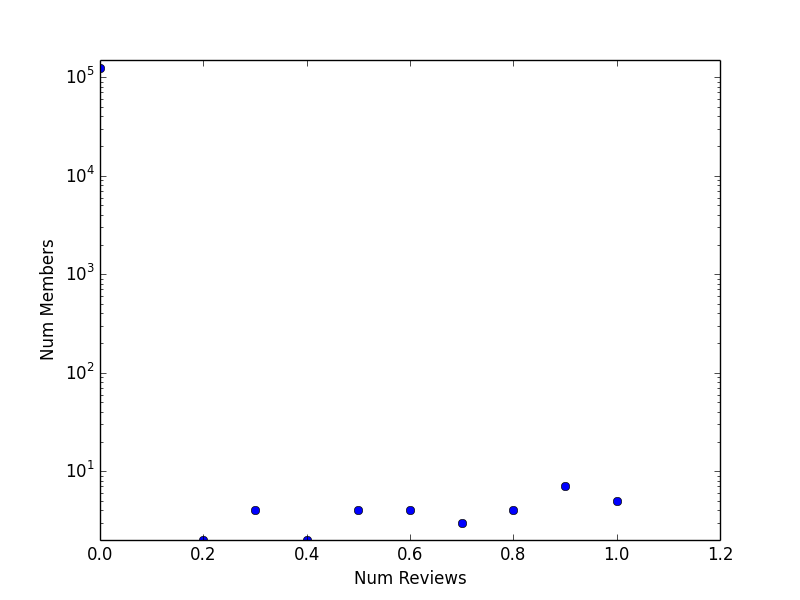
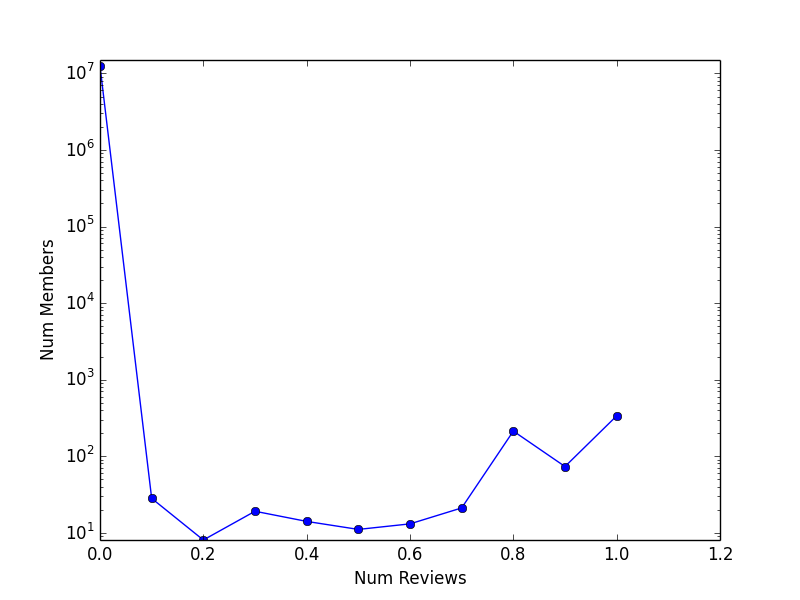
add plot similarity

diff --git a/summary_plot.py b/summary_plot.py
@@ -7,9 +7,13 @@ from sets import Set
 from collections import Counter
 import re
 import file_util
+import ast
 
-FU = file_util.FileUtil('../AmazonDataBackup/reviewsNew/reviewsNew.mP')
-FU.get_structure()
+fu = file_util.FileUtil()
+
+fu.open_file('../AmazonDataBackup/reviewsNew/reviewsNew.mP')
+
+fu.get_structure()
 
 def get_reviews_reviewers_relation(memberId_list):
 	"""
@@ -92,15 +96,12 @@ def get_2_grams(words=""):
 	return Set(words_list_2)
 
 def get_js_list(content_list):
-	# content_list = get_reviews_content(reviews_array)
-	content_2_grams = []
-	for content in content_list:
-		content_2_grams.append(get_2_grams(words=content))
-	reviews_len = len(content_list)
+	content_list_2_grams = [get_2_grams(content) for content in content_list]
+	reviews_len = len(content_list_2_grams)
 	jd_list = []
 	for i in range(0, reviews_len):
 		for j in range(i + 1, reviews_len):
-			jd_list.append(jaccard_distence(content_2_grams[i], content_2_grams[j]))
+			jd_list.append(jaccard_distence(content_list_2_grams[i], content_list_2_grams[j]))
 
 	return jd_list
 
@@ -130,21 +131,15 @@ def get_reviews_similarity_relation(jd_list):
 		elif jd ==1:
 			rs_relation_dict['1'] += 1		
 	rs_relation_dict = collections.OrderedDict(sorted(rs_relation_dict.items()))
-	print rs_relation_dict
 	return rs_relation_dict
 
 # rs_relation_dict = get_reviews_similarity_relation(get_js_list(reviews_array))
 # plot_relation(rs_relation_dict, use_log=False, plot_type='b-', xlabel='Similarity Score', ylabel='Num Pairs')
 
-# print get_reviews_rating_relation(reviews_array)
-# print get_reviews_feedbacks_relation(reviews_array)
-# print get_reviews_products_relation(reviews_array)
-# get_reviews_reviewers_relation(reviews_array)
+# save_graph(get_reviews_reviewers_relation(fu.get_memberId_list()), 'reviews_reviewers.png')
+# save_graph(get_reviews_products_relation(fu.get_productId_list()), 'reviews_products.png', xlabel='Num Reviews', ylabel='Num Products')
+# save_graph(get_reviews_feedbacks_relation(fu.get_feedback_list()), 'reviews_feedbacks.png', xlabel='Num Reviews', ylabel='Num Feedbacks')
+# save_graph(get_reviews_rating_relation(fu.get_rating_list()), 'reviews_rating.png', plot_type='b-', use_log=[False, False],  xlabel='Percent of Reviews', ylabel='Rating')
+# save_graph(get_reviews_similarity_relation(get_js_list(fu.get_content_list()[3000:8000])), 'review_similarity.png', use_log=[False, True], plot_type='bo-')
 
-# save_graph(get_reviews_reviewers_relation(FU.get_memberId_list()), 'reviews_reviewers.png')
-# save_graph(get_reviews_products_relation(FU.get_productId_list()), 'reviews_products.png', xlabel='Num Reviews', ylabel='Num Products')
-# save_graph(get_reviews_feedbacks_relation(FU.get_feedback_list()), 'reviews_feedbacks.png', xlabel='Num Reviews', ylabel='Num Feedbacks')
-# save_graph(get_reviews_rating_relation(FU.get_rating_list()), 'reviews_rating.png', plot_type='b-', use_log=[False, False],  xlabel='Percent of Reviews', ylabel='Rating')
-
-save_graph(get_reviews_similarity_relation(get_js_list(FU.get_content_list()[0:500])), 'review_similarity.png', use_log=[False, True], plot_type='bo')
-FU.close()
+fu.close()

diff --git a/file_util.py b/file_util.py
@@ -2,9 +2,13 @@
 
 class FileUtil:
 
-	def __init__(self, file_name, open_type='r', **attrs):
-		self.fp = open(file_name, open_type)
+	def __init__(self, file_name='', open_type='r', **attrs):
+		if file_name:
+			self.fp = open(file_name, open_type)
 		self.structure = []
+
+	def open_file(self, file_name, open_type='r'):
+		self.fp = open(file_name, open_type)
 
 	def get_file_line(self):
 		"""
@@ -18,10 +22,6 @@ class FileUtil:
 
 		return non_blank_count
 
-
-	def write_to_file(self, filename, content):
-		self.fp.write(content)
-
 	def close(self):
 		self.fp.close()
 
@@ -31,6 +31,7 @@ class FileUtil:
 		和下面一个方法不同的是，这个直接把数组二维化
 		"""
 		self.structure = [line.split(split_type) for line in self.fp]
+		return self.structure
 
 	def get_line_list(self):
 		"""
